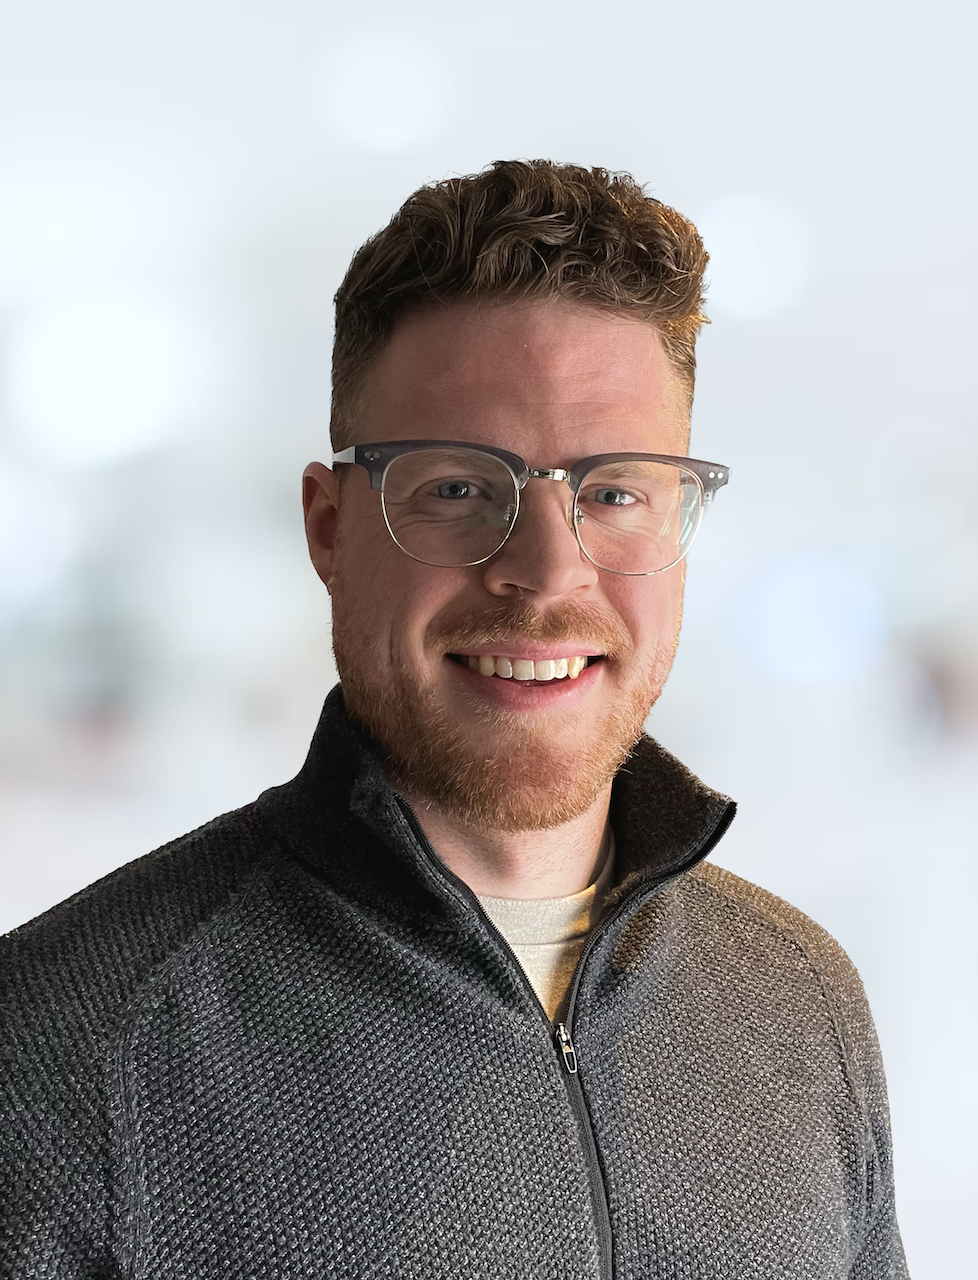
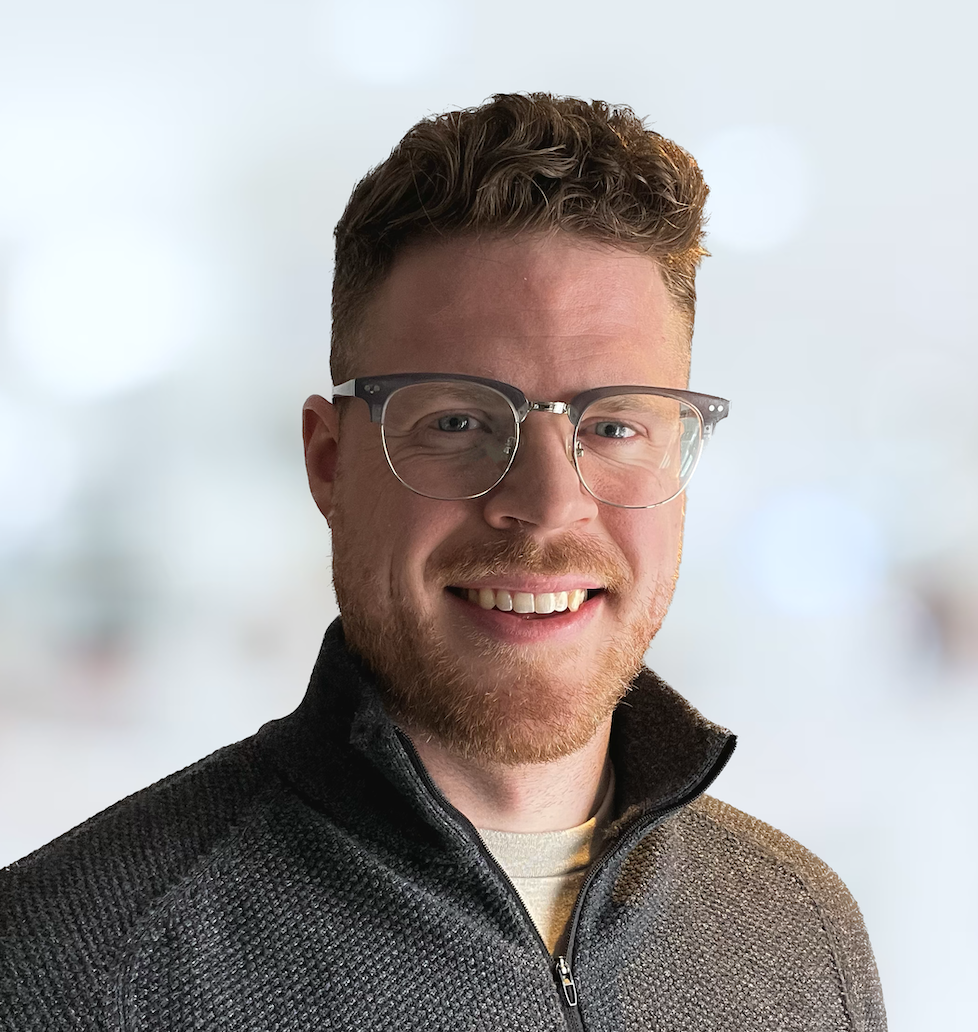
changed profile style and layout

diff --git a/_layouts/about.html b/_layouts/about.html
@@ -10,7 +10,7 @@ layout: page
 {% if page.profile %}
   <div class="profile col one {{ page.profile.align }}">
     {% if page.profile.image %}
-      <img class="one" src="{{ page.profile.image | prepend: '/assets/img/' | prepend: site.baseurl | prepend: site.url }}">
+      <img class="circular--square" src="{{ page.profile.image | prepend: '/assets/img/' | prepend: site.baseurl | prepend: site.url }}">
     {% endif %}
     {% if page.profile.address %}
       <div class="address">

diff --git a/_sass/_profile.scss b/_sass/_profile.scss
@@ -43,3 +43,11 @@
     margin-top: 50px;
     padding-top: 20px;
 }
+
+.circular--square { 
+    border-top-left-radius: 50% 50%; 
+    border-top-right-radius: 50% 50%; 
+    border-bottom-right-radius: 50% 50%; 
+    border-bottom-left-radius: 50% 50%; 
+    box-shadow: 0 0 5px $grey-color;
+}

diff --git a/_pages/about.md b/_pages/about.md
@@ -5,7 +5,7 @@ title: <h1>Dan Gale, Ph.D.</h1>
 description: Neuroscience | Data Science | Software Development
 
 profile:
-  align: left
+  align: right
   image: profile.png
 news: false
 social: true
